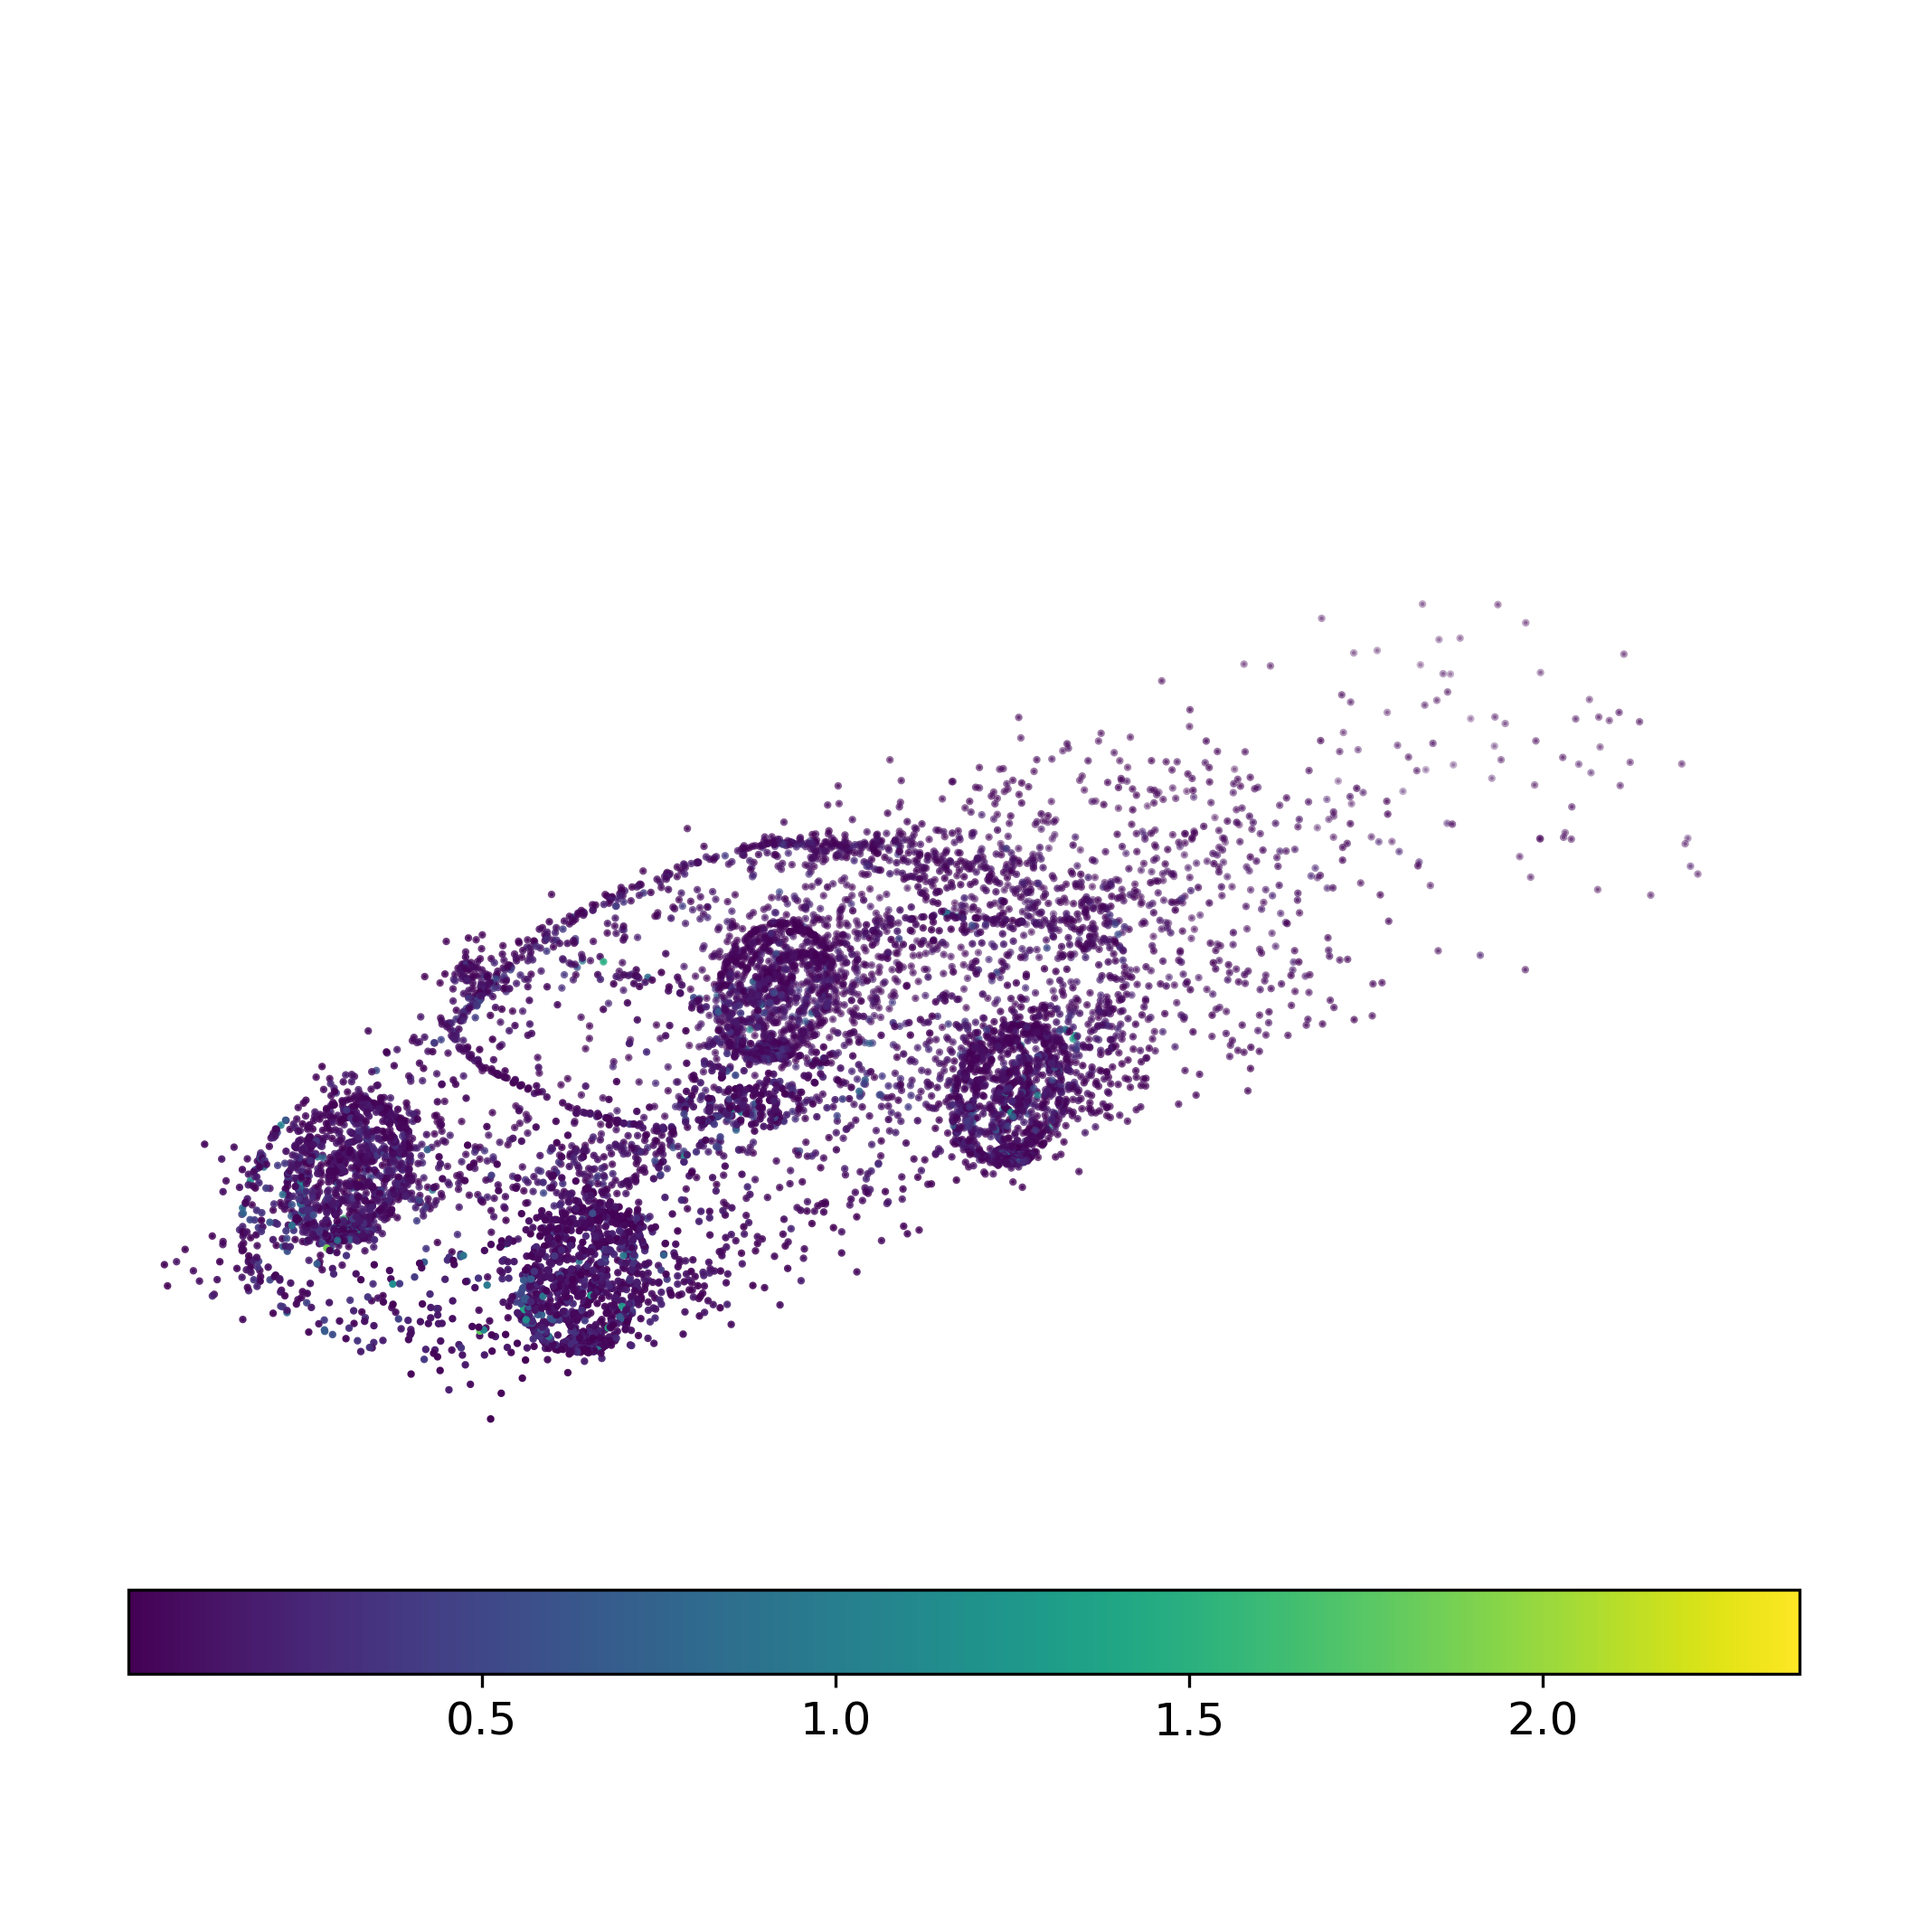
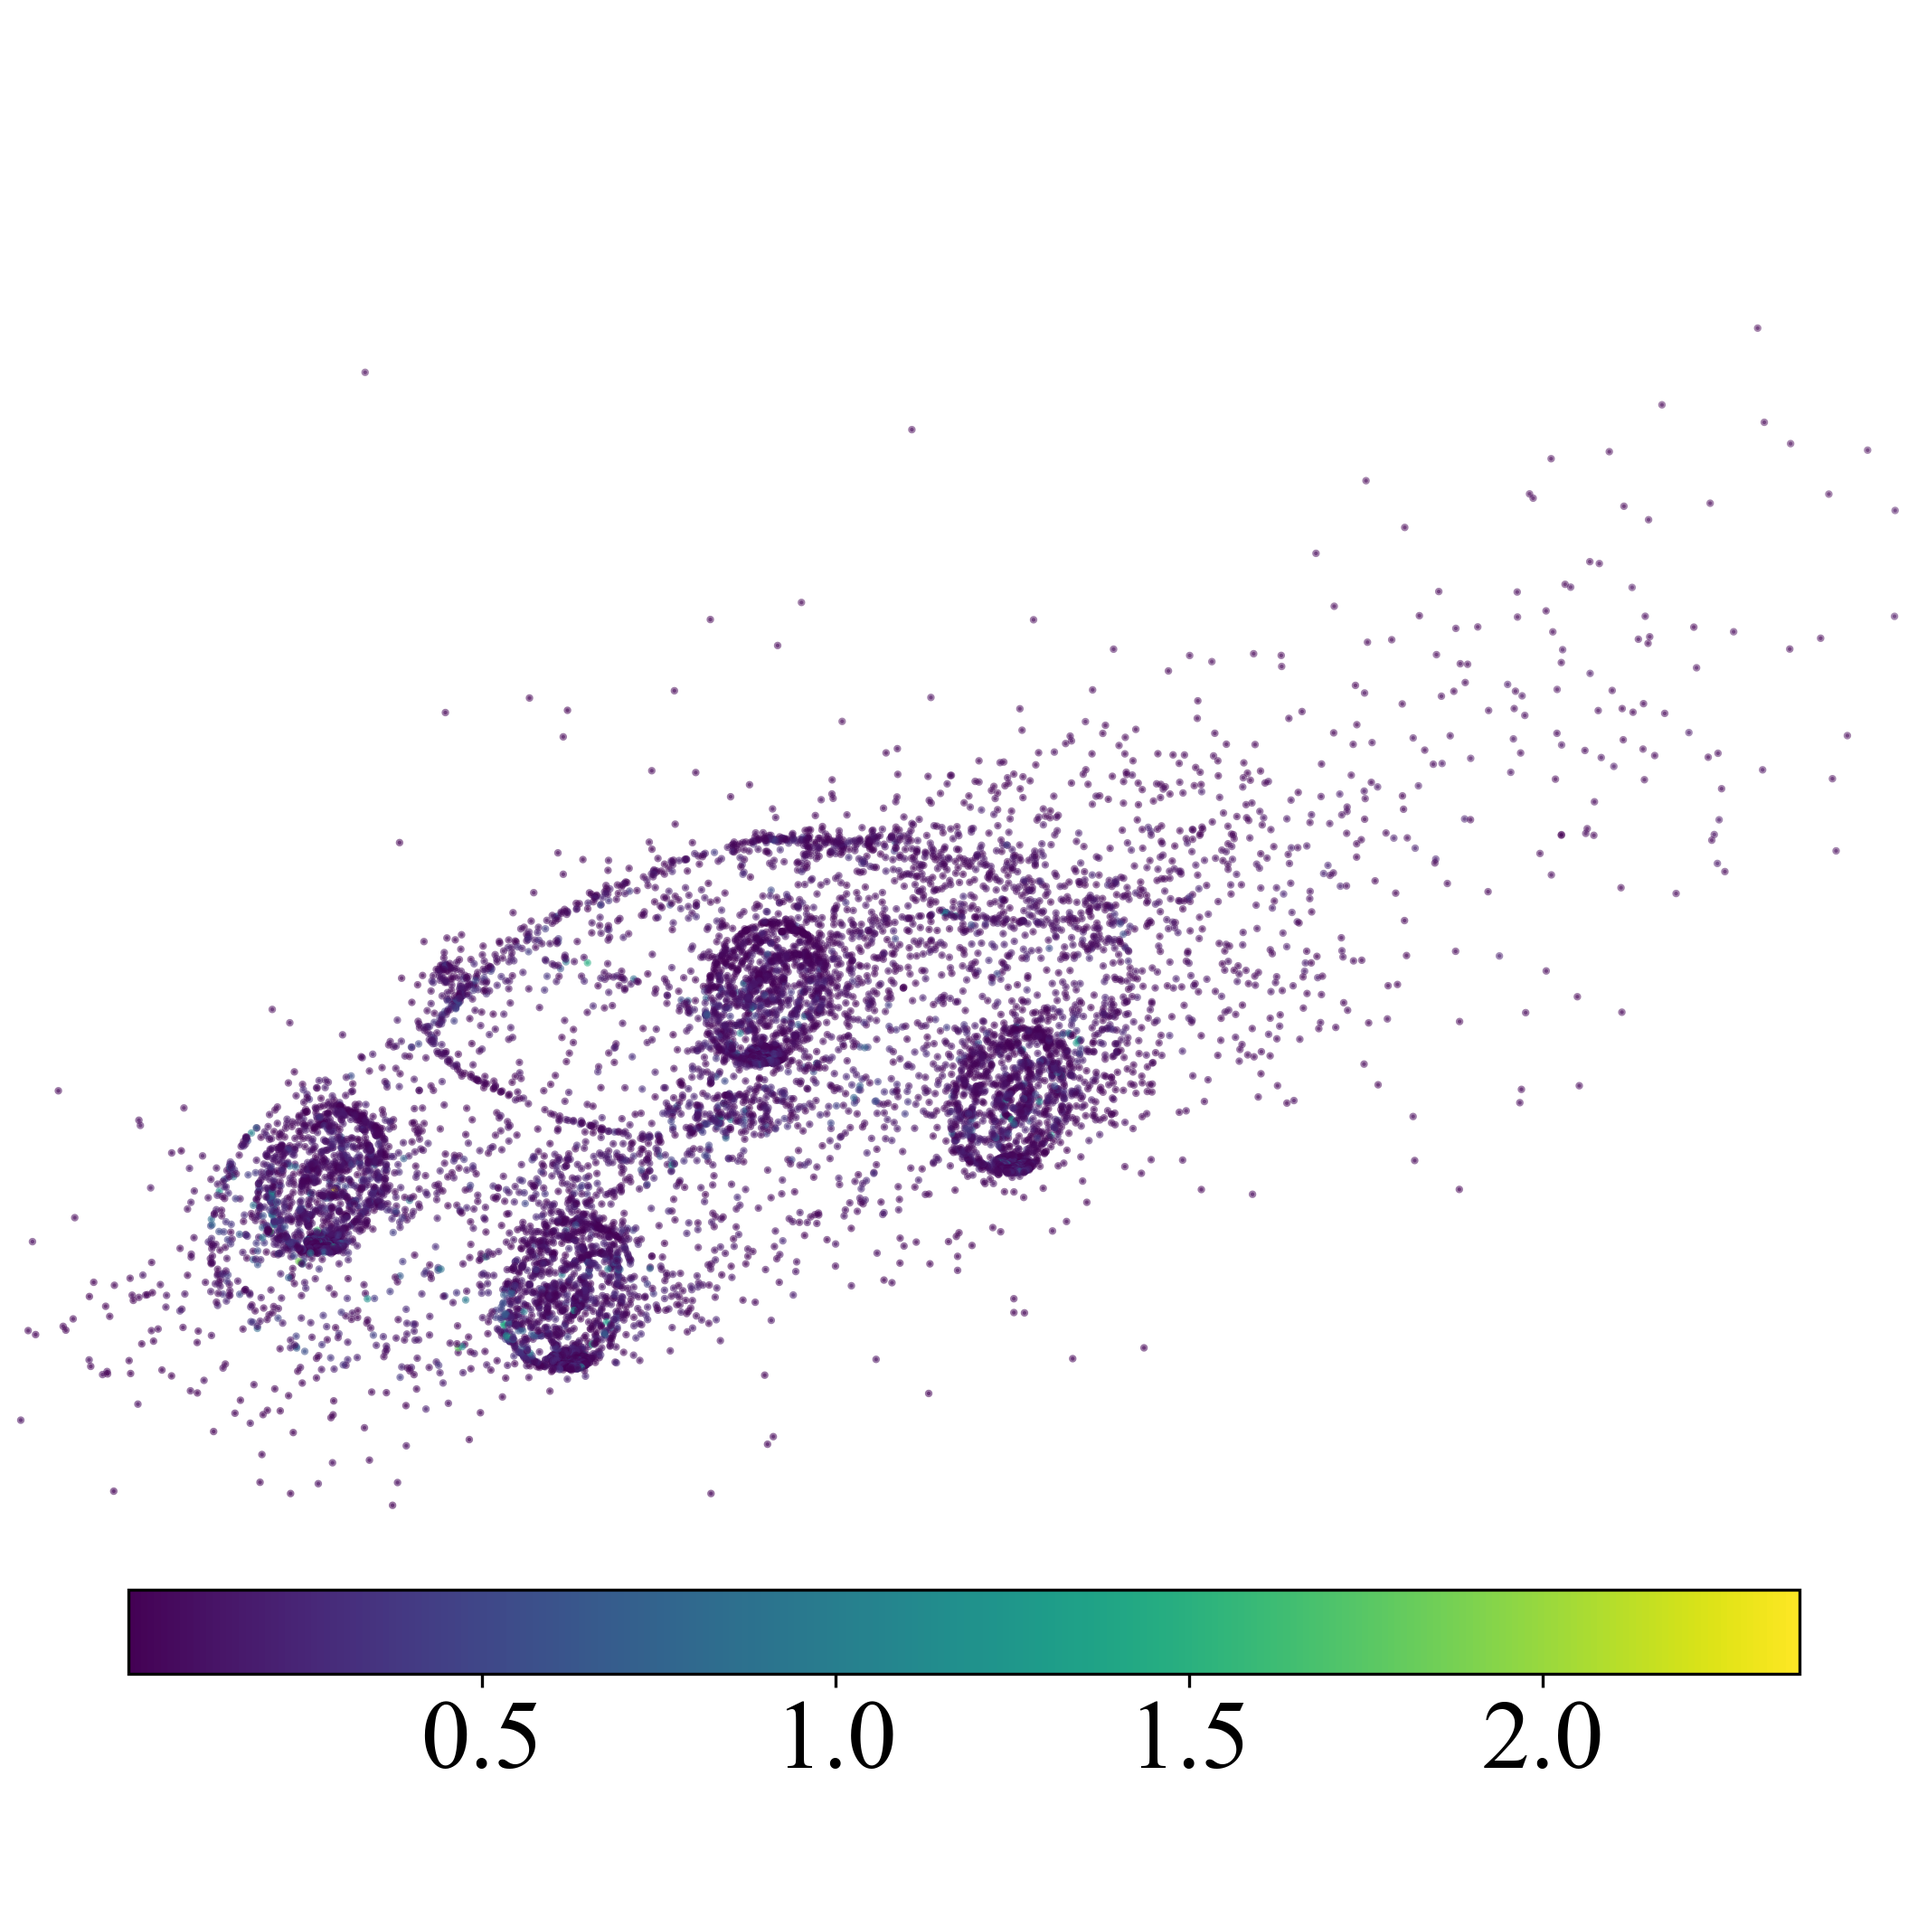
fig

diff --git a/Transolver_zbj/zbj/utils_RPTO.py b/Transolver_zbj/zbj/utils_RPTO.py
@@ -3,6 +3,7 @@ import matplotlib.pyplot as plt
 from mpl_toolkits.mplot3d import Axes3D  # noqa: F401
 from matplotlib.tri import Triangulation
 from mpl_toolkits.axes_grid1 import make_axes_locatable
+from matplotlib.ticker import FormatStrFormatter
 
 
 def plot_car_ShapeNet_pressure(
@@ -207,7 +208,7 @@ def plot_car_ShapeNet_pressure(
     print("Saved focused point cloud images (car-centered) with tight colorbar.")
 
 
-def plot_car_velocity(
+def plot_car_DrivAerML_velocity(
     size,      # 速度场空间位置，用于裁剪和固定坐标轴比例 (N_s,3) 或 (1,N_s,3)
     x,         # y/y_hat 的空间位置 (1,N,3) 或 (N,3)
     y,         # 标量值 (1,N,1) 或 (N,1)
@@ -299,7 +300,16 @@ def plot_car_velocity(
         ax.view_init(elev=elev, azim=azim)
 
         cbar = fig.colorbar(sc, ax=ax, orientation='horizontal', pad=colorbar_pad, fraction=0.05)
+        # ===== 手动设置 5 个刻度 =====
+        if vmin is not None and vmax is not None:
+            ticks = np.linspace(vmin, vmax, 5)
+            cbar.set_ticks(ticks)
+        else:
+            # 对于 error（没有固定范围），用当前数据范围
+            ticks = np.linspace(values.min(), values.max(), 5)
+            cbar.set_ticks(ticks)
         cbar.ax.tick_params(labelsize=colorbar_fontsize)
+        cbar.ax.xaxis.set_major_formatter(FormatStrFormatter('%.1f'))
         plt.savefig(filename, dpi=300, bbox_inches='tight', pad_inches=0.01)
         plt.close(fig)
 
